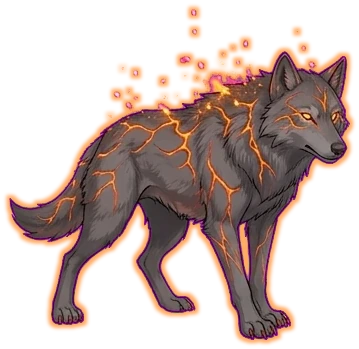
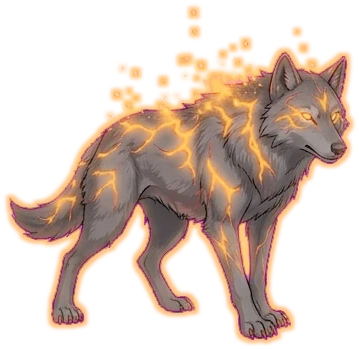
燼狼的熔岩裂紋在遊戲裡看得出來了（立繪的紋路加粗、暈光、身體提亮）；新增逐隻拍怪的腳本
- 燼狼是燼紅裂谷最常見的怪，原圖縮到遊戲裡的大小後裂紋糊掉，變成深褐色地面上一團灰褐色。scripts/glow-art.py 處理 Jacky 的原圖（原圖在 git 歷史 6d6e44b）。
- scripts/shot-foe.mjs：把某一種怪擺到主角旁邊，拍活著與打倒後幾幀（看大小、血條、翻面、死亡演出）。
- scripts/play.mjs：NIGHT=1 對霧語以外的圖生效（以前少了 furyKills）。
- 對照圖 docs/screenshots/ember-wolf-glow-before-after.jpg。純畫面，沒動 core。

Claude-Session: https://claude.ai/code/session_01DgXGTwByE1GqfTvvEcD1YF

diff --git a/scripts/glow-art.py b/scripts/glow-art.py
@@ -1,0 +1,29 @@
+#!/usr/bin/env python3
+"""立繪上的發光紋路（熔岩裂紋、星紋）縮到遊戲裡的大小會糊掉時用（第 173 輪，燼狼）：把暖色亮紋加粗、暈開一圈光，身體再提亮一點，直接存回去。
+用法：python3 scripts/glow-art.py public/art/enemy_x.webp ff8a30 [暈開半徑=5] [強度=0.9] [身體 gamma=0.85]
+只挑「紅明顯大於藍、而且夠亮」的像素當紋路；要從原圖做（重複跑會越來越亮）。"""
+import sys
+import numpy as np
+from PIL import Image, ImageFilter
+
+path, hexc = sys.argv[1], sys.argv[2]
+rad = float(sys.argv[3]) if len(sys.argv) > 3 else 5
+k = float(sys.argv[4]) if len(sys.argv) > 4 else 0.9
+gamma = float(sys.argv[5]) if len(sys.argv) > 5 else 0.85
+col = np.array([int(hexc[i:i + 2], 16) for i in (0, 2, 4)], dtype=np.float32)
+a = np.array(Image.open(path).convert('RGBA')).astype(np.float32)
+rgb, al = a[..., :3], a[..., 3] / 255
+r, g, b = rgb[..., 0], rgb[..., 1], rgb[..., 2]
+# 紋路：暖色（r 比 b 高很多）且亮；邊緣那圈柔光（半透明）不算
+vein = np.clip((r - b - 60) / 70, 0, 1) * np.clip((r - 140) / 60, 0, 1) * (al > 0.9)
+V = Image.fromarray((vein * 255).astype(np.uint8))
+thick = np.array(V.filter(ImageFilter.MaxFilter(3))).astype(np.float32) / 255
+halo = np.array(V.filter(ImageFilter.MaxFilter(5)).filter(ImageFilter.GaussianBlur(rad))).astype(np.float32) / 255
+body = 255 * (rgb / 255) ** gamma
+glow = np.clip(halo * 1.5, 0, 1)[..., None] * k
+out = body + (255 - body) * glow * (col / 255)  # 濾色（screen）疊一層暖光
+hot = np.array([255, 196, 96], dtype=np.float32)
+out = out * (1 - thick[..., None] * 0.7) + hot * thick[..., None] * 0.7  # 紋路本身加粗、變亮黃
+res = np.dstack([np.clip(out, 0, 255), a[..., 3]]).astype(np.uint8)
+Image.fromarray(res, 'RGBA').save(path, quality=92, method=6)
+print('glow', path, hexc, rad, k, gamma, 'vein px', int((vein > 0.5).sum()))
